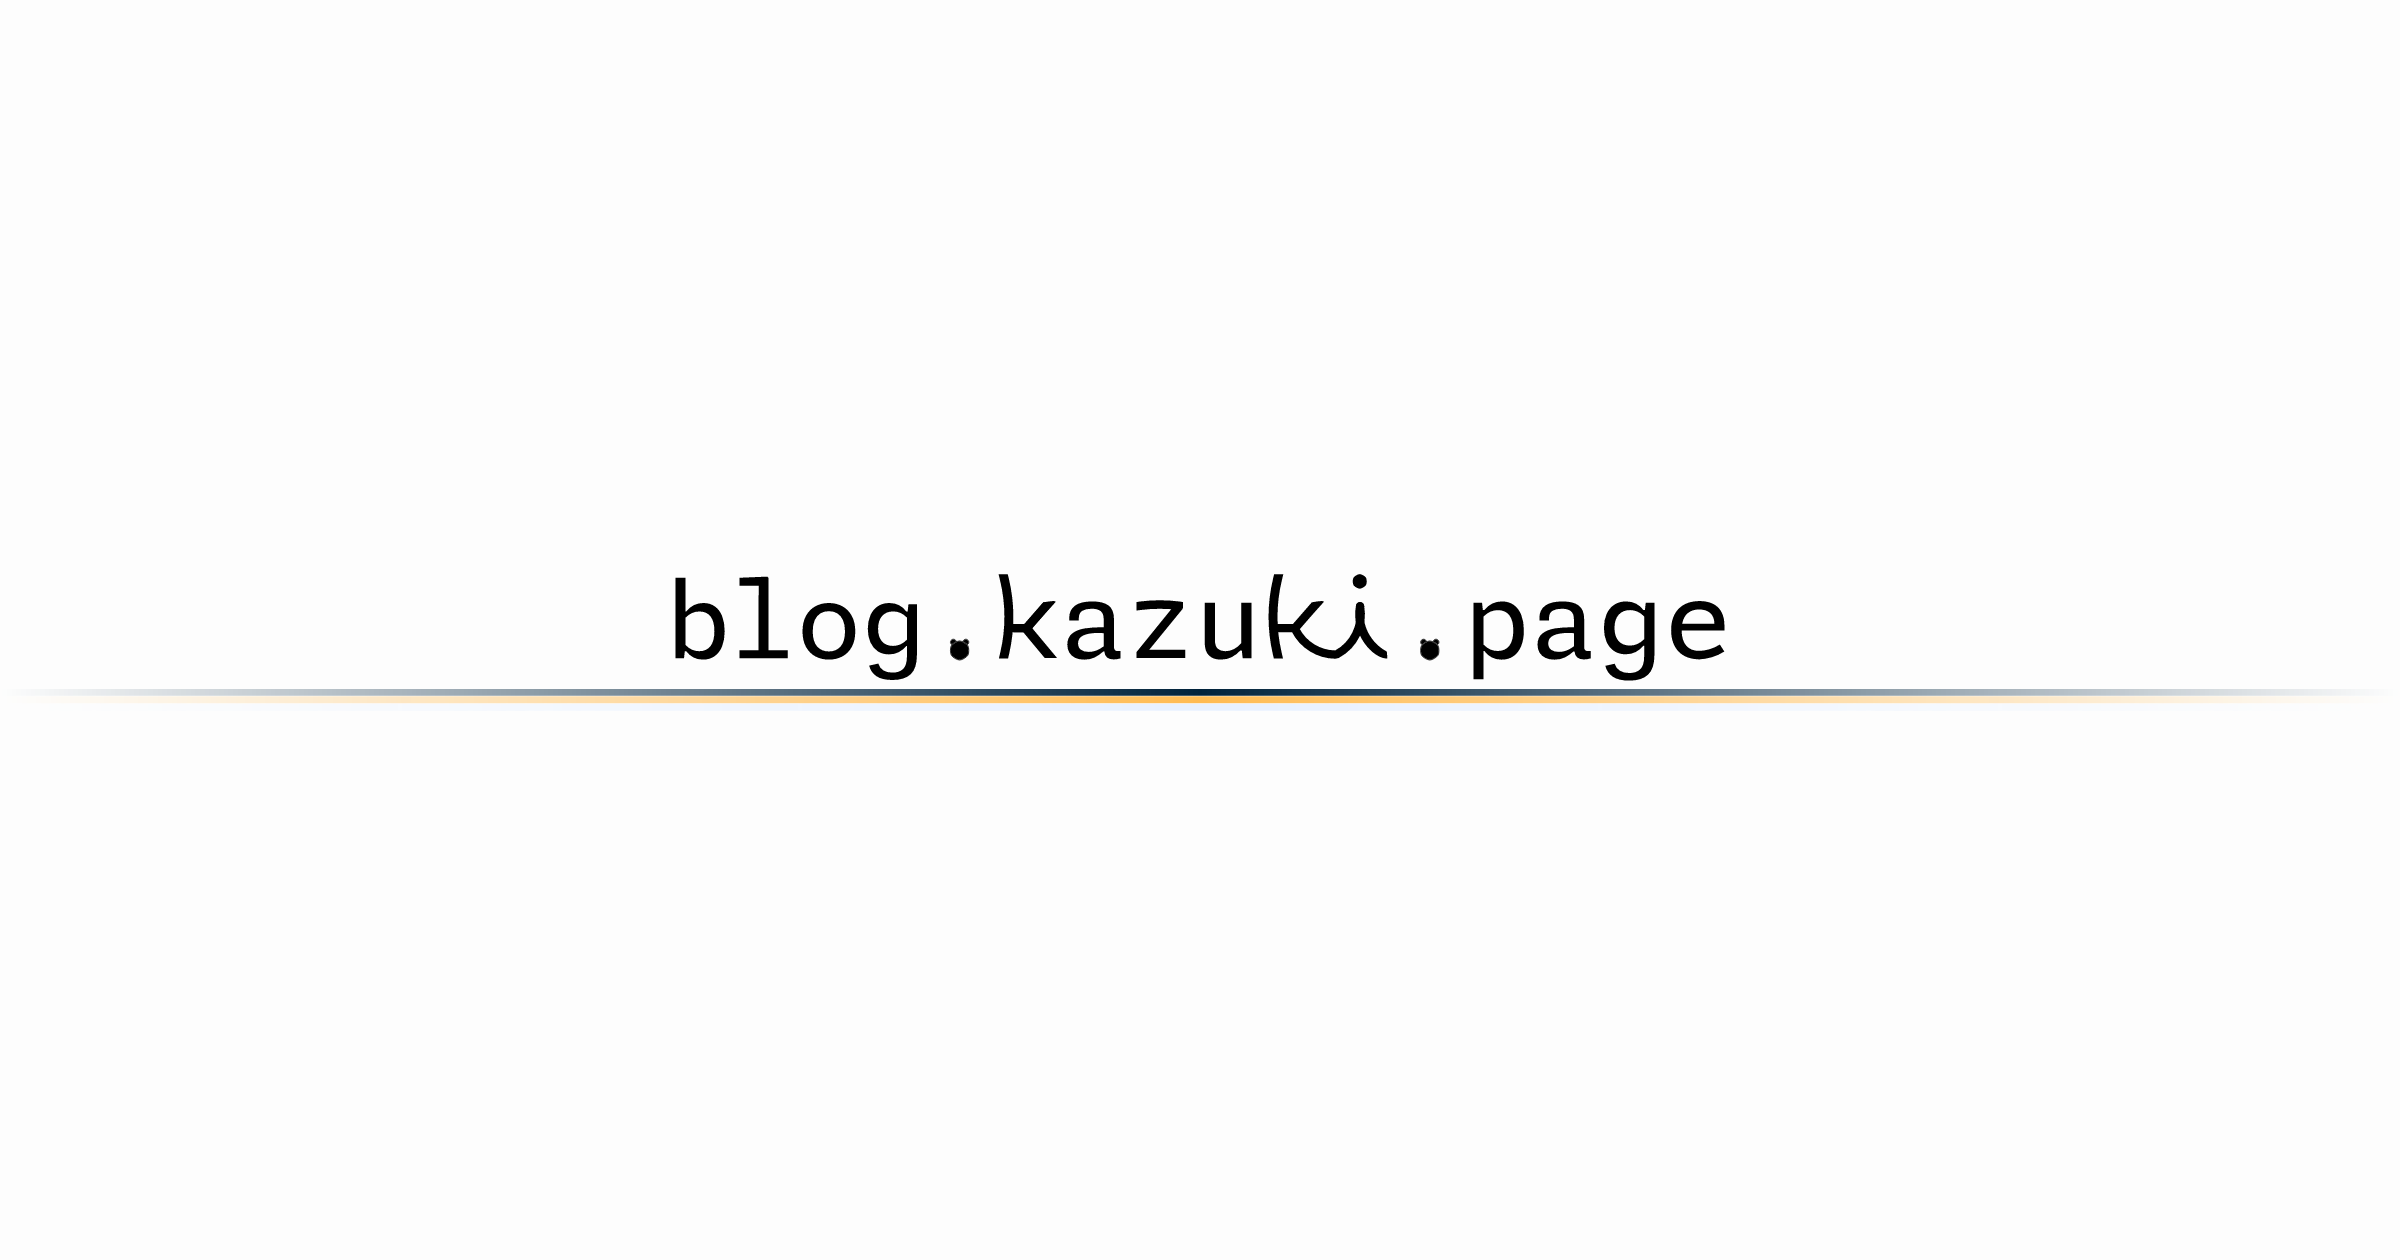
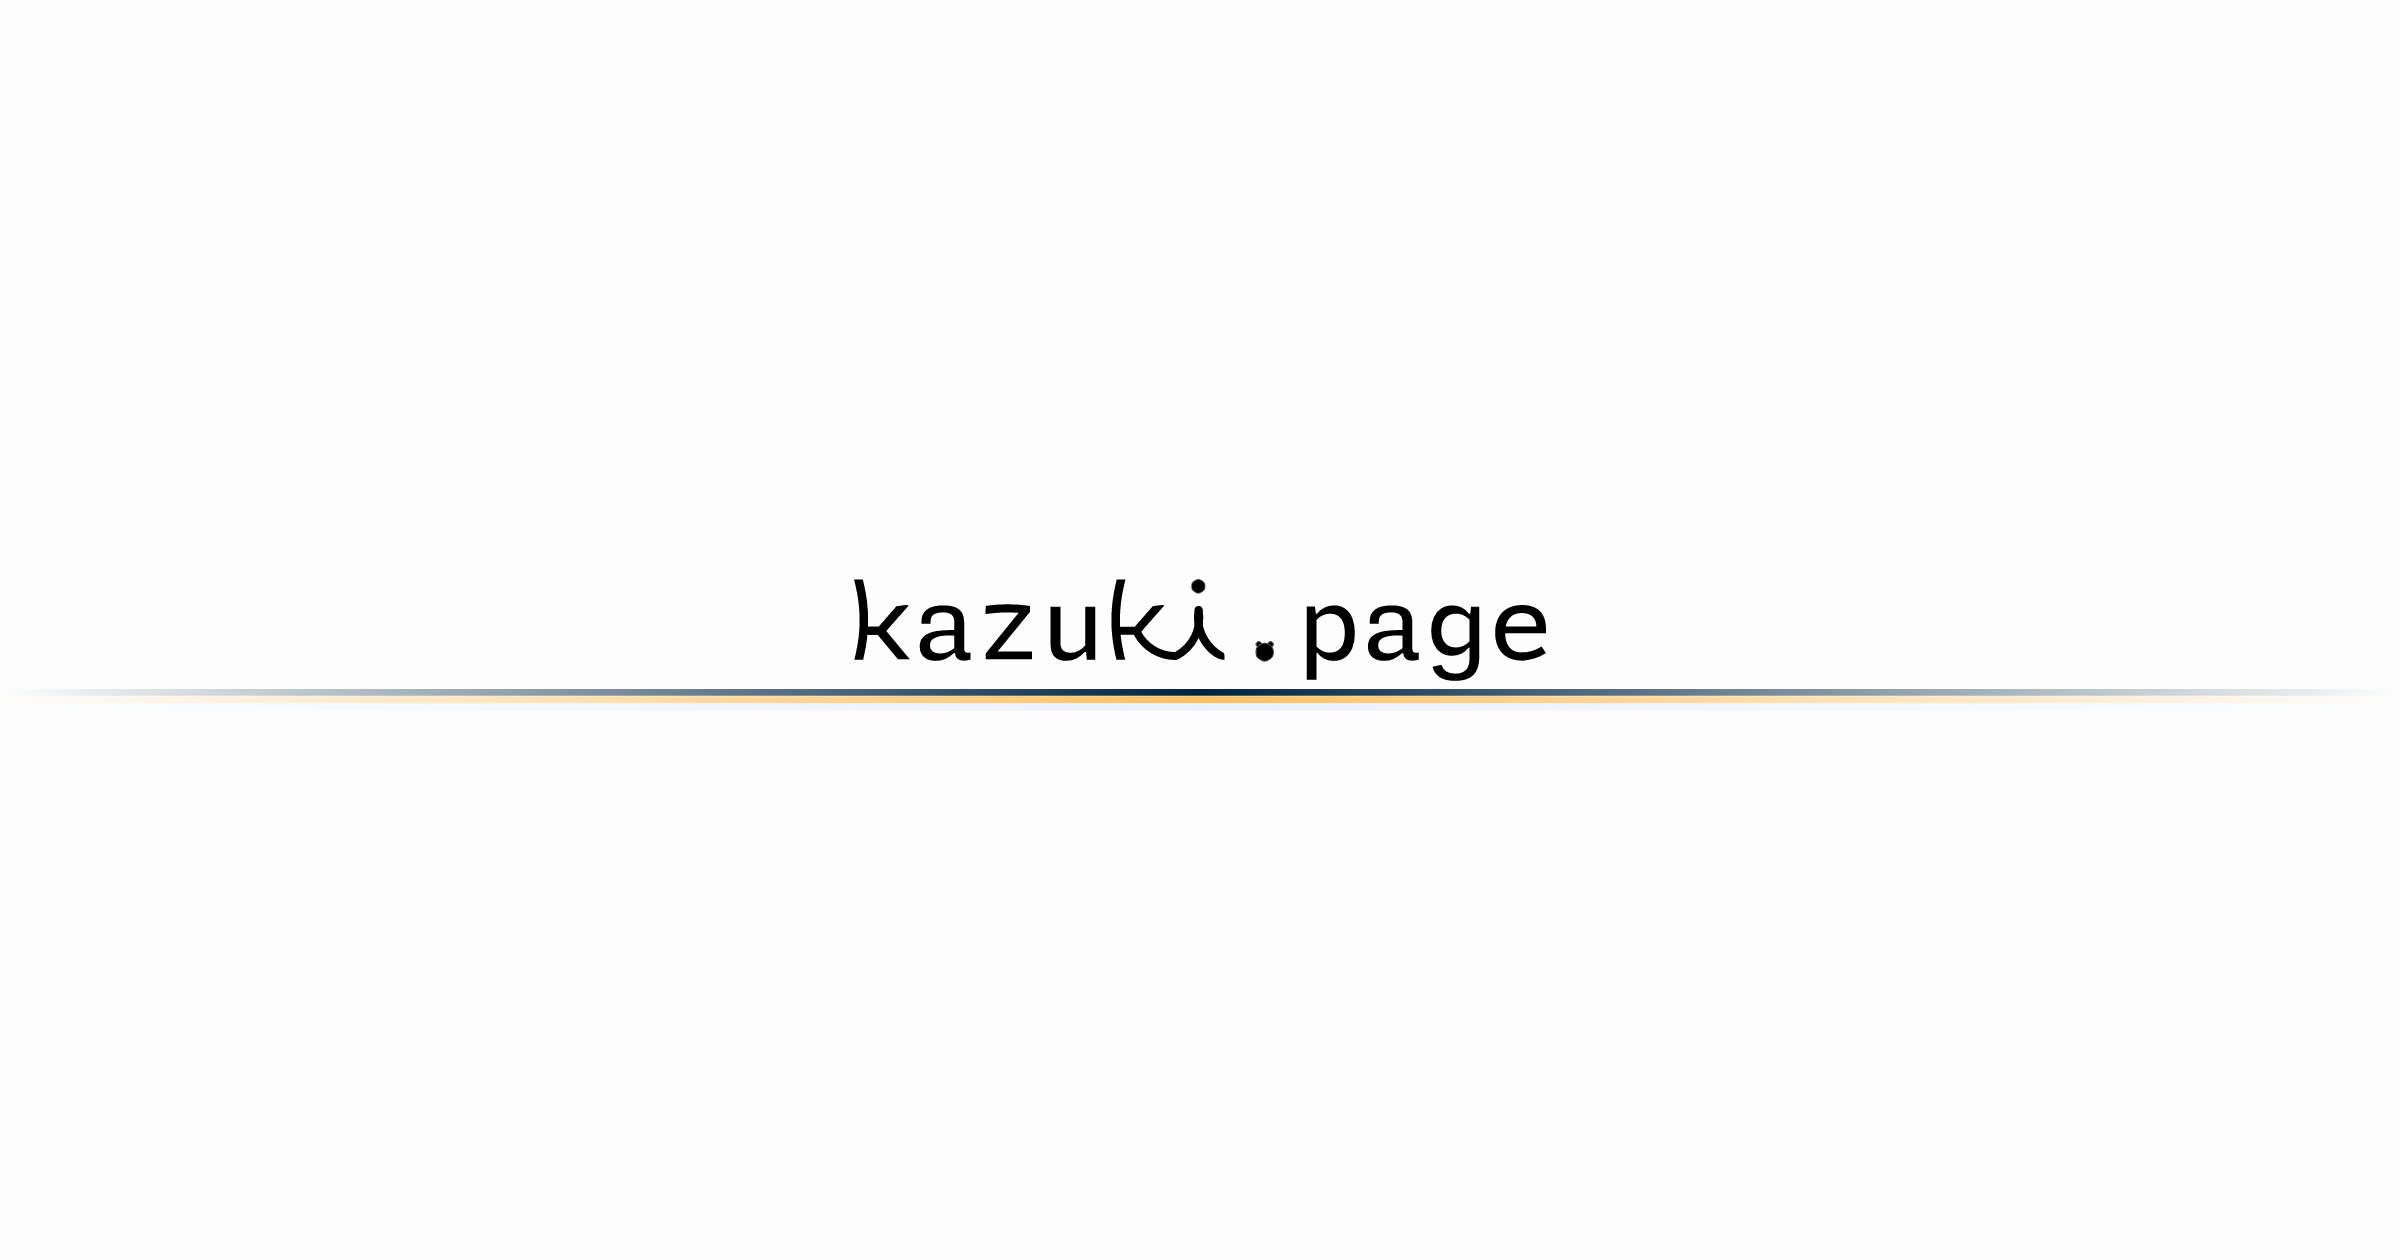
アイコン画像と OGP 画像を差し替える
どちらもブログからの流用や仮置きだったものを、このサイトのものにした。

- public/icon.svg を追加し、intro.avatar から参照する。
  仮のグラデーション円は使われなくなった（実装は残してある）
- public/ogp-default.png をブログ用の流用から差し替えた。
  X がメインの導線なので、共有されたときの見え方は本文と同じくらい効く

avatar のパスは先頭にスラッシュを付けた。相対パスのままだと、
いま avatar を出しているのがトップだけなので動くが、下層ページを
足した時点で静かに壊れる。

Changed region(s): [[0.2812, 0.4643, 0.7188, 0.5571]]

diff --git a/src/data/profile.ts b/src/data/profile.ts
@@ -19,7 +19,8 @@ export const intro = {
   /*
    * アイコン画像。
    */
-  avatar: null as string | null,
+  /* 先頭のスラッシュは必須。相対パスだと下層ページを足したときに壊れる */
+  avatar: '/icon.svg',
 };
 
 /*
